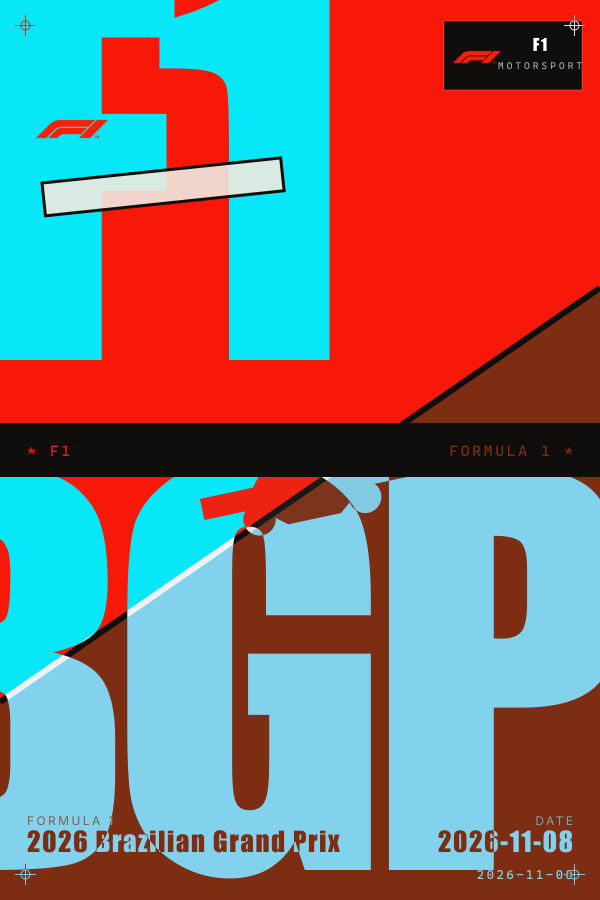
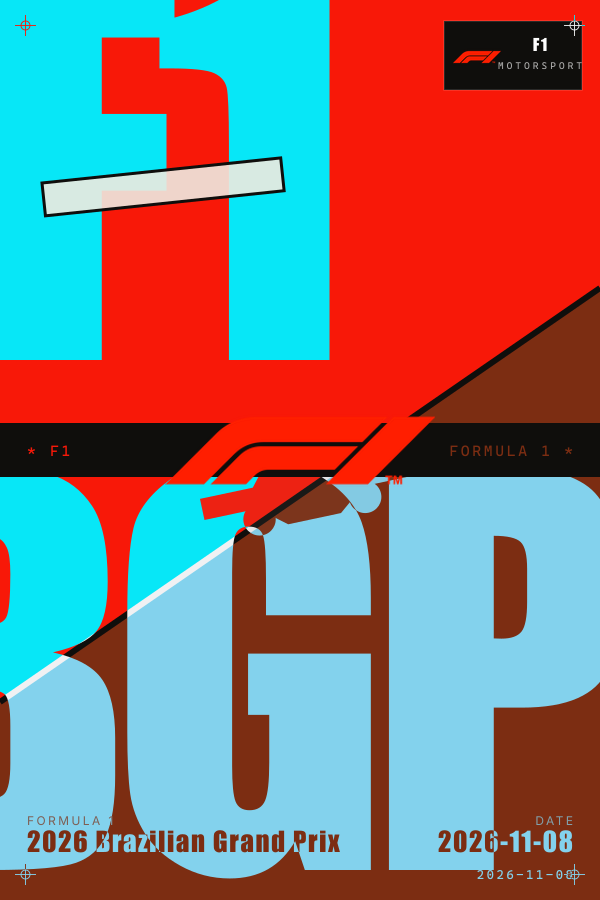
🎯 fix: uniform crest size across all 7 poster templates + bigger solo league
Normalize matchup home/away crests to 124 (400-canvas) / 186 (600-canvas)
and enlarge the solo league mark to 180 / 270 — bigger than the matchup
crests so single-mark sports (golf, motorsport, wrestling brands) dominate
their poster. Previously each template used its own ad-hoc size:

  editorial    matchup 116 → 124   solo 136 → 180
  broadcast    matchup 124 → 186   solo 160 → 270 (badgeR 62 → 93)
  sportsbook   matchup 100 → 124   solo 152 → 180
  trading-card matchup 124         solo 144 → 180
  brutalist    matchup ∅  → 124    solo  48 → 180
  ticket-stub  matchup  88 → 124   solo  96 → 180
  glitch       matchup  54 → 124   solo  58 → 180

Broadcast home/away repositioned to (190,290)/(410,610) so the larger
radius-93 discs still clear the central chrome VS. Sportsbook SVG circles
bumped r=50 → r=62 to match the new slot diameter. Brutalist gains
home/away slots along the diagonal split (it was type-only before).

Cache version → 20260513-uniform-slot-sizes-v23 (invalidates existing
rasters). Gallery samples regenerated; sports.html cache-bust query
updated to v=20260513-uniform-sizes-v23.

Changed region(s): [[0.27, 0.4356, 0.72, 0.56], [0.06, 0.1244, 0.18, 0.1556]]

diff --git a/src/utils/sportsPosterTemplates.js b/src/utils/sportsPosterTemplates.js
@@ -1020,11 +1020,11 @@ function renderEditorial(event = {}, variant = 'poster', theme = {}, mode = '') 
   const slots = [{ role: 'league', left: 20, top: 14, size: 42 }]
   if (m.hasMatchup) {
     slots.push(
-      { role: 'home', left: 50, top: 132, size: 116 },
-      { role: 'away', left: 234, top: 132, size: 116 }
+      { role: 'home', left: 42, top: 128, size: 124 },
+      { role: 'away', left: 234, top: 128, size: 124 }
     )
   } else {
-    slots.push({ role: 'league', left: 132, top: 118, size: 136 })
+    slots.push({ role: 'league', left: 110, top: 100, size: 180 })
   }
   // Audit fix G3.2: editorial hero now uses team-colour radial sun-burst
   // (matches canonical 01-editorial direction) instead of the generic dome+V.
@@ -1203,17 +1203,17 @@ function renderBroadcast(event = {}, variant = 'poster', theme = {}, mode = '') 
   // Filled with each side's primary colour, white ring, white code text — readable at thumbnail size.
   const homePrimary = home.primary || '#1f2a44'
   const awayPrimary = away.primary || '#3a1c1c'
-  // Badge radius matched to trading-card / editorial weight (~124px diameter
-  // on the 600x900 canvas) so the real club crests read at the same scale as
-  // the other SportsMeta-member templates. Earlier 40px radius left them
-  // visually tiny next to the central chrome VS; 62px brings them in line
-  // with the rest of the family while still keeping ~10px clearance from
-  // the VS mark on the diagonal seam.
-  const badgeR = 62
-  const homeBadgeX = 170
-  const homeBadgeY = 320
-  const awayBadgeX = 430
-  const awayBadgeY = 580
+  // Badge radius normalized to match the rest of the family — a 124-unit
+  // diameter on 400x600 templates equals 186 units (radius 93) on this
+  // 600x900 canvas, so the real crests render at the same visual weight as
+  // editorial / sportsbook / trading-card / ticket-stub. Home/away pulled
+  // further apart on the diagonal so the larger discs still clear the
+  // central chrome VS mark with ~10-12px breathing room.
+  const badgeR = 93
+  const homeBadgeX = 190
+  const homeBadgeY = 290
+  const awayBadgeX = 410
+  const awayBadgeY = 610
   // Real-logo slot positions — match the SVG circle geometry exactly so the
   // composited PNG fills the colored disc. Top-bar code chip is square slotted
   // over the rect at (27, 27, 48, 33) — the league badge sits inside that.
@@ -1225,9 +1225,10 @@ function renderBroadcast(event = {}, variant = 'poster', theme = {}, mode = '') 
       ]
     : [
         { role: 'league', left: 27, top: 21, size: 48 },
-        // Solo: place a watermark league logo over the giant league wordmark
-        // centre so the real mark dominates the visual identity.
-        { role: 'league', left: W / 2 - 80, top: H / 2 - 80, size: 160 }
+        // Solo: oversized centre-stage league mark — bigger than any matchup
+        // badge so single-mark sports (golf, motorsport, wrestling brands)
+        // dominate the visual.
+        { role: 'league', left: W / 2 - 135, top: H / 2 - 135, size: 270 }
       ]
   const codeFontSize = (code) => code.length <= 2 ? 32 : code.length <= 3 ? 28 : 22
   const codeYOffset = (code) => Math.round(codeFontSize(code) * 0.34)
@@ -1734,22 +1735,22 @@ function renderSportsbook(event = {}, variant = 'poster', theme = {}, mode = '')
   const slots = m.hasMatchup
     ? [
         { role: 'league', left: 18, top: 18, size: 32 },
-        { role: 'home', left: 24, top: 190, size: 100 },
-        { role: 'away', left: 276, top: 190, size: 100 }
+        { role: 'home', left: 12, top: 178, size: 124 },
+        { role: 'away', left: 264, top: 178, size: 124 }
       ]
     : [
         { role: 'league', left: 18, top: 18, size: 32 },
-        { role: 'league', left: 124, top: 164, size: 152 }
+        { role: 'league', left: 110, top: 150, size: 180 }
       ]
   const board = m.hasMatchup
     ? `<rect x="16" y="106" width="3" height="320" fill="${m.home.primary}" filter="url(#barGlow_L)"/>
   <text class="mono" x="24" y="130" font-size="9" fill="#7B8390" letter-spacing="1.8">&gt;&gt; ${e(m.leftLabel)}</text>
-  <circle cx="74" cy="240" r="50" fill="url(#badge_L)" stroke="${m.home.accent}" stroke-width="1.5"/>
+  <circle cx="74" cy="240" r="62" fill="url(#badge_L)" stroke="${m.home.accent}" stroke-width="1.5"/>
   <text class="bebas" x="24" y="350" font-size="38" fill="white" letter-spacing="0.4">${e(m.home.short)}</text>
   <text class="sans" x="24" y="372" font-size="10.5" fill="#D1D5DB">${e(m.home.name)}</text>
   <rect x="${SOURCE_W - 19}" y="106" width="3" height="320" fill="${m.away.primary}" filter="url(#barGlow_R)"/>
   <text class="mono" x="${SOURCE_W - 24}" y="130" text-anchor="end" font-size="9" fill="#7B8390" letter-spacing="1.8">${e(m.rightLabel)} &lt;&lt;</text>
-  <circle cx="326" cy="240" r="50" fill="url(#badge_R)" stroke="${m.away.accent}" stroke-width="1.5"/>
+  <circle cx="326" cy="240" r="62" fill="url(#badge_R)" stroke="${m.away.accent}" stroke-width="1.5"/>
   <text class="bebas" x="${SOURCE_W - 24}" y="350" text-anchor="end" font-size="38" fill="white" letter-spacing="0.4">${e(m.away.short)}</text>
   <text class="sans" x="${SOURCE_W - 24}" y="372" text-anchor="end" font-size="10.5" fill="#D1D5DB">${e(m.away.name)}</text>
   <line x1="${SOURCE_W / 2}" y1="116" x2="${SOURCE_W / 2}" y2="220" stroke="rgba(255,255,255,0.25)" stroke-width="0.5"/>
@@ -1845,7 +1846,7 @@ function renderTradingCard(event = {}, variant = 'poster', theme = {}, mode = ''
       ]
     : [
         { role: 'league', left: 160, top: 24, size: 42 },
-        { role: 'league', left: 128, top: 132, size: 144 }
+        { role: 'league', left: 110, top: 100, size: 180 }
       ]
   const rings = Array.from({ length: 18 }, (_, i) => `<circle cx="200" cy="280" r="${20 + i * 18}" fill="none" stroke="#f8e08e" stroke-width="0.5"/>`).join('')
   const rays = Array.from({ length: 36 }, (_, i) => `<line x1="200" y1="280" x2="${(200 + Math.cos(i * Math.PI / 18) * 320).toFixed(1)}" y2="${(280 + Math.sin(i * Math.PI / 18) * 320).toFixed(1)}" stroke="#f8e08e" stroke-width="0.3" opacity="0.5"/>`).join('')
@@ -1924,10 +1925,20 @@ function renderBrutalist(event = {}, variant = 'poster', theme = {}, mode = '') 
   const y78 = SOURCE_H * 0.78
   const reg = (x, y) => `<g transform="translate(${x} ${y})" style="mix-blend-mode:difference"><line x1="0" y1="-7" x2="0" y2="7" stroke="white" stroke-width="0.6"/><line x1="-7" y1="0" x2="7" y2="0" stroke="white" stroke-width="0.6"/><circle cx="0" cy="0" r="3" fill="none" stroke="white" stroke-width="0.6"/></g>`
   const slots = m.hasMatchup
-    ? [{ role: 'league', left: SOURCE_W - 98, top: 22, size: 32 }]
+    ? [
+        { role: 'league', left: SOURCE_W - 98, top: 22, size: 32 },
+        // Diagonal-stagger home/away crests — same 124-unit size as the rest
+        // of the family. Brutalist remains type-led but the real club marks
+        // ride the diagonal split: home upper-left of the seam on the home-
+        // colour polygon, away lower-right on the away-colour polygon.
+        { role: 'home', left: 40, top: 80, size: 124 },
+        { role: 'away', left: 236, top: 396, size: 124 }
+      ]
     : [
         { role: 'league', left: SOURCE_W - 98, top: 22, size: 32 },
-        { role: 'league', left: 24, top: 62, size: 48 }
+        // Solo: enlarged centre-mark so single-mark sports (golf, motorsport,
+        // wrestling brands) read at the same dominance as the other templates.
+        { role: 'league', left: 110, top: 210, size: 180 }
       ]
   const middleStrip = m.hasMatchup
     ? `<text class="mono" x="18" y="${SOURCE_H / 2 + 4}" font-size="10" fill="${m.home.primary}" letter-spacing="1.8">* ${e(m.home.short)}</text>
@@ -1988,8 +1999,8 @@ function renderTicketStub(event = {}, variant = 'poster', theme = {}, mode = '')
   const m = templateData(event, theme, mode)
   const e = escapeXml
   const perfRow = (y) => Array.from({ length: 25 }, (_, i) => 8 + i * 16).filter((x) => x < SOURCE_W).map((x) => `<circle cx="${x}" cy="${y}" r="3.5" fill="#E6DEC9" stroke="rgba(60,40,15,0.35)"/>`).join('')
-  const homeVisual = { x: 108, y: 205, size: 88 }
-  const awayVisual = { x: 292, y: 355, size: 88 }
+  const homeVisual = { x: 92, y: 185, size: 124 }
+  const awayVisual = { x: 308, y: 395, size: 124 }
   const leagueLogoSlot = { x: 24, y: 25, size: 54 }
   const homeInitialSize = m.home.initials.length > 2 ? 25 : 30
   const awayInitialSize = m.away.initials.length > 2 ? 25 : 30
@@ -2021,7 +2032,7 @@ function renderTicketStub(event = {}, variant = 'poster', theme = {}, mode = '')
       ]
     : [
         { role: 'league', left: leagueLogoSlot.x, top: leagueLogoSlot.y, size: leagueLogoSlot.size },
-        { role: 'league', left: 152, top: 154, size: 96 }
+        { role: 'league', left: 110, top: 130, size: 180 }
       ]
   const stubY = SOURCE_H - 100
   const feature = m.hasMatchup
@@ -2144,12 +2155,12 @@ function renderGlitch(event = {}, variant = 'poster', theme = {}, mode = '') {
   const slots = m.hasMatchup
     ? [
         { role: 'league', left: 24, top: 22, size: 34 },
-        { role: 'home', left: 32, top: 430, size: 54 },
-        { role: 'away', left: 314, top: 430, size: 54 }
+        { role: 'home', left: 24, top: 380, size: 124 },
+        { role: 'away', left: 252, top: 380, size: 124 }
       ]
     : [
         { role: 'league', left: 24, top: 22, size: 34 },
-        { role: 'league', left: 310, top: 392, size: 58 }
+        { role: 'league', left: 110, top: 290, size: 180 }
       ]
   const corners = [[14, 14, 0], [SOURCE_W - 14, 14, 90], [14, SOURCE_H - 14, 270], [SOURCE_W - 14, SOURCE_H - 14, 180]].map(([x, y, r]) => `<g transform="translate(${x} ${y}) rotate(${r})"><path d="M-12 -6 L-12 -12 L-6 -12" stroke="#ff0044" stroke-width="1.2" fill="none"/><path d="M-11 -5 L-11 -11 L-5 -11" stroke="#00d9ff" stroke-width="1" fill="none" opacity="0.7"/></g>`).join('')
   // Audit fix (contract bug 3 / glitch): prefer source m.eventTitle so

diff --git a/public/sports.html b/public/sports.html
@@ -1440,27 +1440,27 @@
       </div>
       <div class="poster-gallery" aria-label="SportsMeta member theme previews and 4K backdrops">
         <figure class="poster-example">
-          <img src="/sports-style-samples/editorial.png?v=20260512-all-real-logos-v4" width="600" height="900" loading="lazy" decoding="async" alt="SportsMeta member Editorial poster sample showing magazine-style cover treatment for a Levante vs Sevilla Spanish La Liga fixture with real club crests">
+          <img src="/sports-style-samples/editorial.png?v=20260513-uniform-sizes-v23" width="600" height="900" loading="lazy" decoding="async" alt="SportsMeta member Editorial poster sample showing magazine-style cover treatment for a Levante vs Sevilla Spanish La Liga fixture with real club crests">
           <figcaption><strong>Editorial — SportsMeta member</strong>Magazine-style cover treatment available on the SportsMeta member install.</figcaption>
         </figure>
         <figure class="poster-example">
-          <img src="/sports-style-samples/broadcast.png?v=20260512-all-real-logos-v4" width="600" height="900" loading="lazy" decoding="async" alt="SportsMeta member Broadcast poster sample showing two-side split layout for a Manchester City vs Crystal Palace English Premier League fixture with real club crests">
+          <img src="/sports-style-samples/broadcast.png?v=20260513-uniform-sizes-v23" width="600" height="900" loading="lazy" decoding="async" alt="SportsMeta member Broadcast poster sample showing two-side split layout for a Manchester City vs Crystal Palace English Premier League fixture with real club crests">
           <figcaption><strong>Broadcast — SportsMeta member</strong>Two-side split layout for team-vs-team fixtures.</figcaption>
         </figure>
         <figure class="poster-example">
-          <img src="/sports-style-samples/sportsbook.png?v=20260512-all-real-logos-v4" width="600" height="900" loading="lazy" decoding="async" alt="SportsMeta member Sportsbook poster sample showing odds-board styling for an Everett Silvertips vs Prince Albert Raiders WHL hockey fixture with real team crests">
+          <img src="/sports-style-samples/sportsbook.png?v=20260513-uniform-sizes-v23" width="600" height="900" loading="lazy" decoding="async" alt="SportsMeta member Sportsbook poster sample showing odds-board styling for an Everett Silvertips vs Prince Albert Raiders WHL hockey fixture with real team crests">
           <figcaption><strong>Sportsbook — SportsMeta member</strong>Odds-board styling for matchups and tip-off cards.</figcaption>
         </figure>
         <figure class="poster-example">
-          <img src="/sports-style-samples/trading-card.png?v=20260512-all-real-logos-v4" width="600" height="900" loading="lazy" decoding="async" alt="SportsMeta member Trading Card poster sample showing spotlight card layout for a Connecticut Sun vs Las Vegas Aces WNBA basketball fixture with real team crests">
+          <img src="/sports-style-samples/trading-card.png?v=20260513-uniform-sizes-v23" width="600" height="900" loading="lazy" decoding="async" alt="SportsMeta member Trading Card poster sample showing spotlight card layout for a Connecticut Sun vs Las Vegas Aces WNBA basketball fixture with real team crests">
           <figcaption><strong>Trading Card — SportsMeta member</strong>Spotlight card layout for fight nights and headline events.</figcaption>
         </figure>
         <figure class="poster-example">
-          <img src="/sports-style-samples/brutalist.png?v=20260512-all-real-logos-v4" width="600" height="900" loading="lazy" decoding="async" alt="SportsMeta member Brutalist poster sample showing stripped-back type-led layout for a Formula 1 Brazilian Grand Prix weekend with real F1 mark">
+          <img src="/sports-style-samples/brutalist.png?v=20260513-uniform-sizes-v23" width="600" height="900" loading="lazy" decoding="async" alt="SportsMeta member Brutalist poster sample showing stripped-back type-led layout for a Formula 1 Brazilian Grand Prix weekend with real F1 mark">
           <figcaption><strong>Brutalist — SportsMeta member</strong>Stripped-back type-led layout for racket and table sports.</figcaption>
         </figure>
         <figure class="poster-example">
-          <img src="/sports-style-samples/glitch.png?v=20260512-all-real-logos-v4" width="600" height="900" loading="lazy" decoding="async" alt="SportsMeta member Glitch poster sample showing high-energy distorted treatment for a Formula 1 Brazilian Grand Prix with real F1 mark">
+          <img src="/sports-style-samples/glitch.png?v=20260513-uniform-sizes-v23" width="600" height="900" loading="lazy" decoding="async" alt="SportsMeta member Glitch poster sample showing high-energy distorted treatment for a Formula 1 Brazilian Grand Prix with real F1 mark">
           <figcaption><strong>Glitch — SportsMeta member</strong>High-energy distorted treatment for motorsport sessions and headline events.</figcaption>
         </figure>
         <figure class="poster-example backdrop">

diff --git a/src/utils/sportsArtwork.js b/src/utils/sportsArtwork.js
@@ -11,7 +11,7 @@ const {
 const { resolveSportBackdrop } = require('./sportBackdrops')
 const { verifyStampedSportsPosterEntitlement } = require('./entitlement')
 
-const SPORTS_ARTWORK_PROXY_VERSION = '20260511-real-logo-v22-league-canonical-fallback'
+const SPORTS_ARTWORK_PROXY_VERSION = '20260513-uniform-slot-sizes-v23'
 
 function normalizeSpace(value) {
   return String(value || '').replace(/\s+/g, ' ').trim()

diff --git a/src/handlers/sportsArtworkProxy.js b/src/handlers/sportsArtworkProxy.js
@@ -41,7 +41,7 @@ const VARIANT_DIMENSIONS = {
 }
 
 const ALLOWED_VARIANTS = new Set(Object.keys(VARIANT_DIMENSIONS))
-const LOCAL_ARTWORK_RENDER_VERSION = '20260511-real-logo-v22-league-canonical-fallback'
+const LOCAL_ARTWORK_RENDER_VERSION = '20260513-uniform-slot-sizes-v23'
 
 const UPSTREAM_TIMEOUT_MS = Math.max(
   1500,
